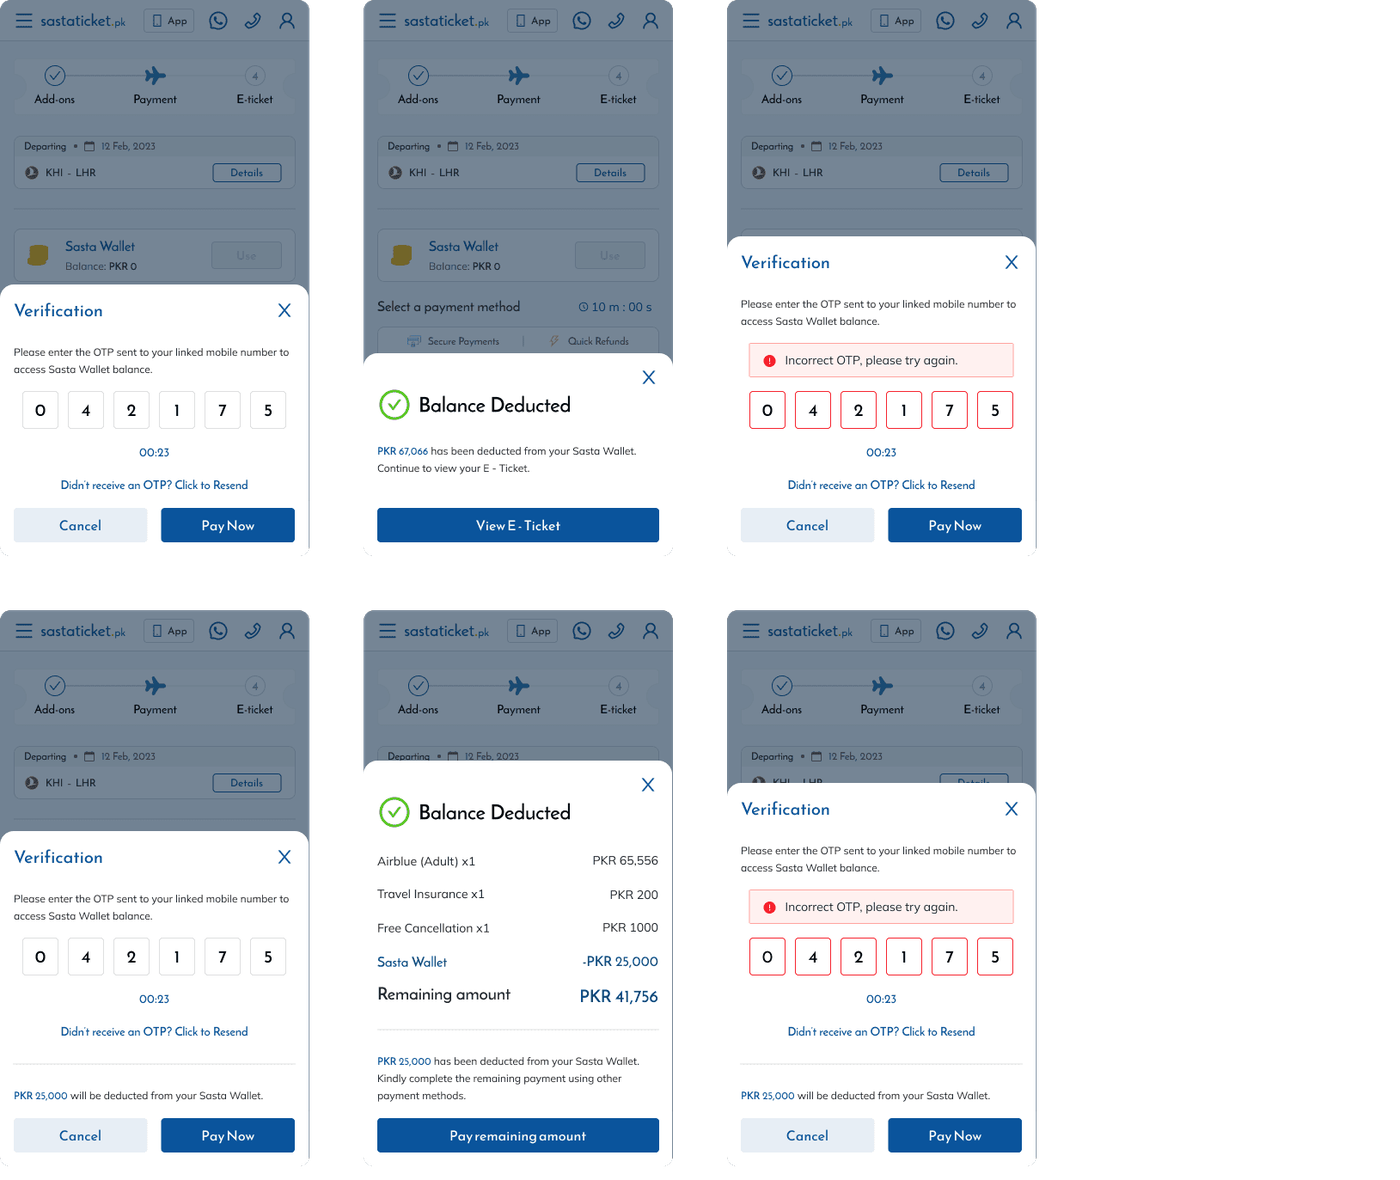
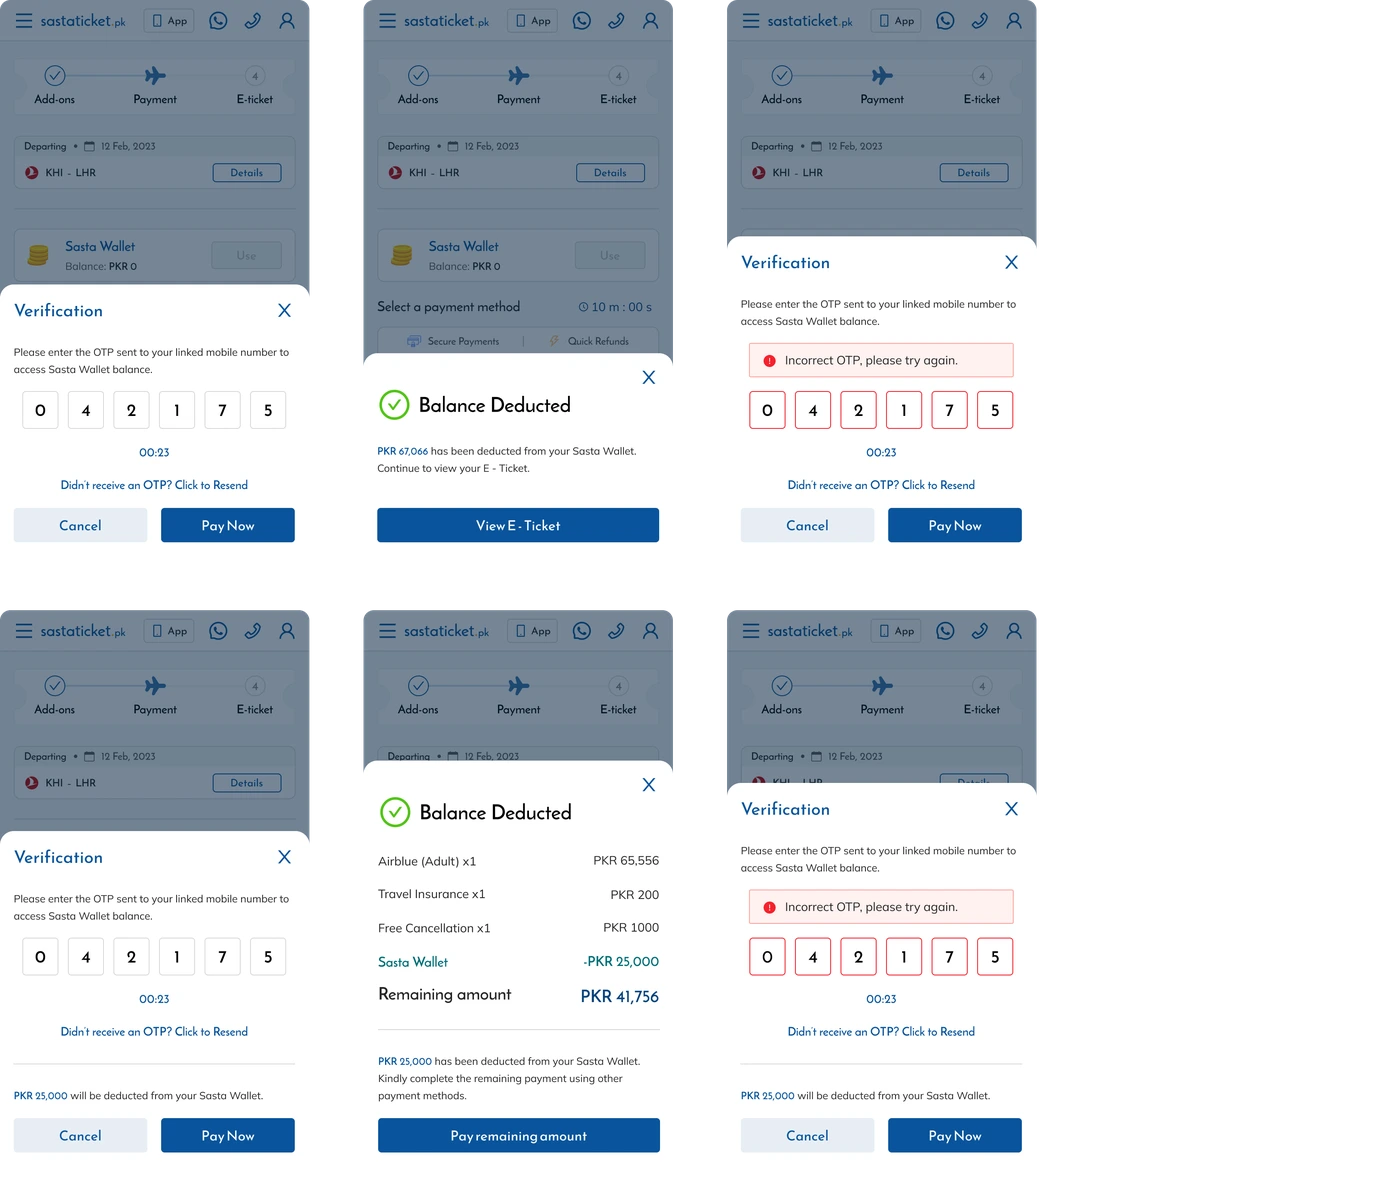
Reorder homepage case studies, update wallet OTP screenshot
New order: Sastaticket, ST Wallet, Aramco, NEOM, KFH, Dubai Airports,
Kia, Cadillac. Updates the "Next Case Study" chain on wallet, aramco,
neom, and kfh to match, and swaps in the refreshed OTP verification
screenshot for the ST Wallet case study.

diff --git a/index.html b/index.html
@@ -141,26 +141,7 @@
   </a>
 
   <!-- 3 -->
-  <a class="case reveal" href="kfh.html">
-    <div class="case__body">
-      <div class="case__content">
-        <h5 class="case__brand">KFH Capital</h5>
-        <div class="case__headline">
-          <h3 class="case__title">Repositioning KFH Capital<br class="case-title-br"> as an institutional leader</h3>
-          <p class="case__desc">Rebuilt a wealth management platform around two distinct investor journeys.</p>
-        </div>
-        <div class="case__tags">
-          <span class="tag">7 min read</span>
-        </div>
-      </div>
-    </div>
-    <figure class="case__media">
-      <img src="assets/img/poster-kfh.webp" alt="Kuwait Finance House Capital website">
-    </figure>
-  </a>
-
-  <!-- 4 -->
-  <a class="case case--flip reveal" href="aramco.html">
+  <a class="case reveal" href="aramco.html">
     <div class="case__body">
       <div class="case__content">
         <h5 class="case__brand">Aramco</h5>
@@ -182,8 +163,8 @@
     </figure>
   </a>
 
-  <!-- 5 -->
-  <a class="case reveal" href="neom.html">
+  <!-- 4 -->
+  <a class="case case--flip reveal" href="neom.html">
     <div class="case__body">
       <div class="case__content">
         <h5 class="case__brand">NEOM</h5>
@@ -202,6 +183,25 @@
     </div>
     <figure class="case__media">
       <img src="assets/img/shot-neom.webp" alt="NEOM campaign system">
+    </figure>
+  </a>
+
+  <!-- 5 -->
+  <a class="case reveal" href="kfh.html">
+    <div class="case__body">
+      <div class="case__content">
+        <h5 class="case__brand">KFH Capital</h5>
+        <div class="case__headline">
+          <h3 class="case__title">Repositioning KFH Capital<br class="case-title-br"> as an institutional leader</h3>
+          <p class="case__desc">Rebuilt a wealth management platform around two distinct investor journeys.</p>
+        </div>
+        <div class="case__tags">
+          <span class="tag">7 min read</span>
+        </div>
+      </div>
+    </div>
+    <figure class="case__media">
+      <img src="assets/img/poster-kfh.webp" alt="Kuwait Finance House Capital website">
     </figure>
   </a>
 

diff --git a/kfh.html b/kfh.html
@@ -376,25 +376,21 @@
       <div class="cs-head reveal">
         <span class="pill"><img class="pill__icon" src="assets/img/pill-casestudy.webp" alt="">Next Case Study</span>
       </div>
-      <a class="case reveal" href="aramco.html">
+      <a class="case reveal" href="dxb.html">
         <div class="case__body">
           <div class="case__content">
-            <h5 class="case__brand">Aramco</h5>
+            <h5 class="case__brand">Dubai Airports</h5>
             <div class="case__headline">
-              <h3 class="case__title">Reducing engineering overhead at the design stage</h3>
-              <p class="case__desc">Collapsed the design to engineering handoff on Aramco's marketing dashboard using AI assisted workflows.</p>
+              <h3 class="case__title">Improving wayfinding at Dubai Airports</h3>
+              <p class="case__desc">Restructured wayfinding for 7.9 million monthly travelers at one of the world's busiest airports.</p>
             </div>
             <div class="case__tags">
-              <span class="tag">4 min read</span>
-            </div>
-            <div class="case__stats">
-              <div class="stat"><h5 class="stat__num" data-count="59" data-prefix="" data-suffix="%" data-decimals="0">59%</h5><span class="stat__label">Saved in engineering cost</span></div>
-              <div class="stat"><h5 class="stat__num" data-count="70" data-prefix="" data-suffix="%" data-decimals="0">70%</h5><span class="stat__label">Faster end to end delivery</span></div>
+              <span class="tag">6 min read</span>
             </div>
           </div>
         </div>
-        <figure class="case__media">
-          <img src="assets/img/poster-aramco.webp" alt="Aramco marketing dashboard">
+        <figure class="case__media case__media--portrait">
+          <img src="assets/img/poster-dxb.webp" alt="Dubai Airports wayfinding app">
         </figure>
       </a>
     </div>

diff --git a/wallet.html b/wallet.html
@@ -281,21 +281,25 @@
       <div class="cs-head reveal">
         <span class="pill"><img class="pill__icon" src="assets/img/pill-casestudy.webp" alt="">Next Case Study</span>
       </div>
-      <a class="case reveal" href="kfh.html">
+      <a class="case reveal" href="aramco.html">
         <div class="case__body">
           <div class="case__content">
-            <h5 class="case__brand">KFH Capital</h5>
+            <h5 class="case__brand">Aramco</h5>
             <div class="case__headline">
-              <h3 class="case__title">Repositioning KFH Capital as an institutional leader</h3>
-              <p class="case__desc">Rebuilt a wealth management platform around two distinct investor journeys.</p>
+              <h3 class="case__title">Reducing engineering overhead at the design stage</h3>
+              <p class="case__desc">Collapsed the design to engineering handoff on Aramco's marketing dashboard using AI assisted workflows.</p>
             </div>
             <div class="case__tags">
-              <span class="tag">7 min read</span>
+              <span class="tag">4 min read</span>
+            </div>
+            <div class="case__stats">
+              <div class="stat"><h5 class="stat__num" data-count="59" data-prefix="" data-suffix="%" data-decimals="0">59%</h5><span class="stat__label">Saved in engineering cost</span></div>
+              <div class="stat"><h5 class="stat__num" data-count="70" data-prefix="" data-suffix="%" data-decimals="0">70%</h5><span class="stat__label">Faster end to end delivery</span></div>
             </div>
           </div>
         </div>
         <figure class="case__media">
-          <img src="assets/img/poster-kfh.webp" alt="Kuwait Finance House Capital website">
+          <img src="assets/img/poster-aramco.webp" alt="Aramco marketing dashboard">
         </figure>
       </a>
     </div>

diff --git a/neom.html b/neom.html
@@ -323,21 +323,21 @@
       <div class="cs-head reveal">
         <span class="pill"><img class="pill__icon" src="assets/img/pill-casestudy.webp" alt="">Next Case Study</span>
       </div>
-      <a class="case reveal" href="dxb.html">
+      <a class="case reveal" href="kfh.html">
         <div class="case__body">
           <div class="case__content">
-            <h5 class="case__brand">Dubai Airports</h5>
+            <h5 class="case__brand">KFH Capital</h5>
             <div class="case__headline">
-              <h3 class="case__title">Improving wayfinding at Dubai Airports</h3>
-              <p class="case__desc">Restructured wayfinding for 7.9 million monthly travelers at one of the world's busiest airports.</p>
+              <h3 class="case__title">Repositioning KFH Capital as an institutional leader</h3>
+              <p class="case__desc">Rebuilt a wealth management platform around two distinct investor journeys.</p>
             </div>
             <div class="case__tags">
-              <span class="tag">6 min read</span>
+              <span class="tag">7 min read</span>
             </div>
           </div>
         </div>
-        <figure class="case__media case__media--portrait">
-          <img src="assets/img/poster-dxb.webp" alt="Dubai Airports wayfinding app">
+        <figure class="case__media">
+          <img src="assets/img/poster-kfh.webp" alt="Kuwait Finance House Capital website">
         </figure>
       </a>
     </div>
